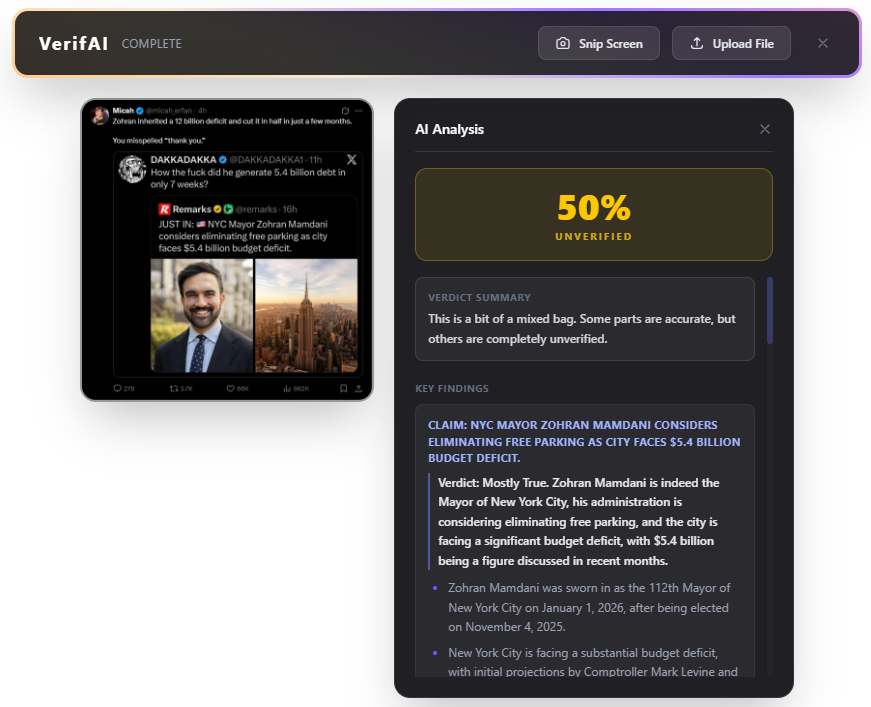
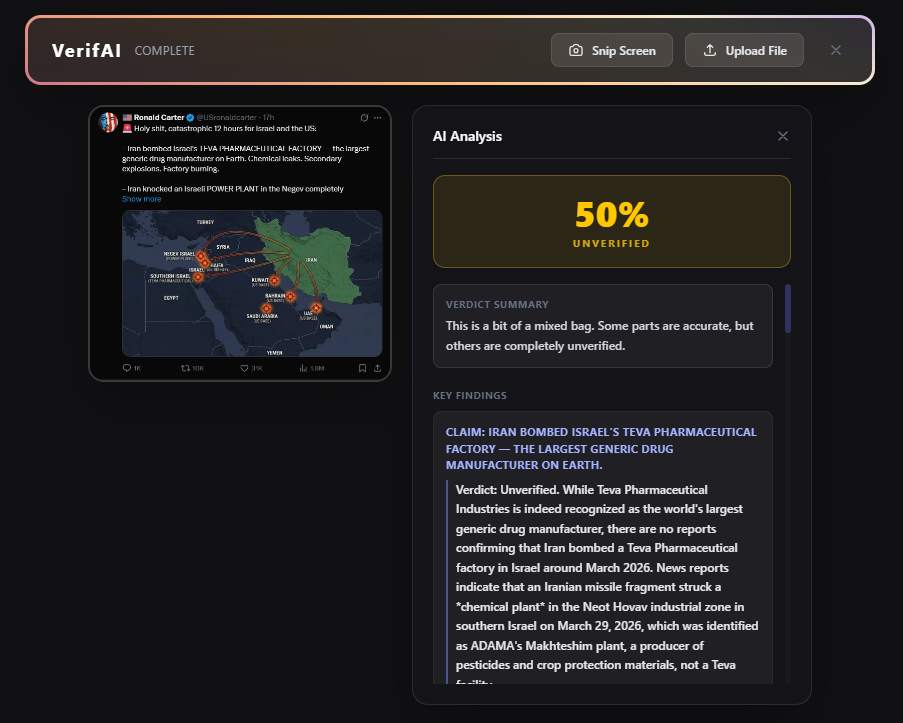
Update project documentation

diff --git a/README.md b/README.md
@@ -4,7 +4,7 @@ Submitted to GDG Gemini Hackathon
 
 A multimodal misinformation detection toolkit that analyzes screenshots, images, videos, and text using a multi-stage AI reasoning pipeline.
 
-<img src="./media/verifai_1.png" width="500"/>
+<img src="./media/verifai_1.png" width="700"/>
 
 ## Table of Contents
  
@@ -94,16 +94,16 @@ Pass 3 is what makes confidence scores meaningful: a verdict that collapses unde
 
 ```
 VerifAI/
-├── backend/          # FastAPI — media routing, analysis orchestration
+├── backend/                  # FastAPI — media routing, analysis orchestration
 │   └── app/
 │       ├── main.py           # API entrypoint (/analyze)
 │       ├── core/analyzer.py  # Multi-pass pipeline orchestration
 │       └── analysis/         # ELA, FFT, deepfake, CLIP, factcheck modules
-├── server/           # Flask — Google GenAI (Gemini) wrapper
+├── server/                   # Flask — Google GenAI (Gemini) wrapper
 │   └── app.py
-├── web/              # Vite frontend (TypeScript) (depreciated)
-├── extension/        # Browser extension (TypeScript) (depreciated)
-└── client/           # Electron desktop overlay
+├── web/                      # Vite frontend (TypeScript) (depreciated)
+├── extension/                # Browser extension (TypeScript) (depreciated)
+└── client/                   # Electron desktop overlay
 ```
 
 ## Getting Started
